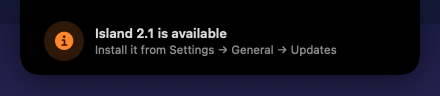
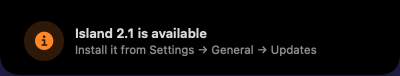
Island page: each install step carries its own picture; cards aligned row by row

diff --git a/island/index.html b/island/index.html
@@ -25,7 +25,7 @@
   </script>
   <script src="/theme-init.js"></script>
   <link rel="stylesheet" href="/style.css">
-  <link rel="stylesheet" href="/island/island.css?v=5">
+  <link rel="stylesheet" href="/island/island.css?v=6">
 </head>
 <body class="theme-org">
   <header class="site-header">
@@ -297,20 +297,20 @@
         </div>
         <ol class="steps-list install-steps reveal">
           <li>
-            <strong>Download</strong>Open the <span data-download-name>Island .dmg</span> and drag Island to Applications.
+            <strong>Download</strong><p class="step-text">Open the <span data-download-name>Island .dmg</span> and drag Island to Applications.</p>
             <div class="step-visual"><a class="btn btn-primary" data-download href="#install">Download free for Mac</a></div>
           </li>
           <li>
-            <strong>Open it</strong>Double-click Island. When macOS says it could not verify it, click <em>Done</em> (not Move to Trash).
+            <strong>Open it</strong><p class="step-text">Double-click Island. When macOS says it could not verify it, click <em>Done</em> (not Move to Trash).</p>
             <div class="step-visual"><img src="/assets/island/install-warning.png?v=2" width="274" height="284" loading="lazy" alt="The macOS message “Island” Not Opened: Apple could not verify Island is free of malware, with Move to Trash and Done buttons"></div>
           </li>
           <li>
-            <strong>Allow it, once</strong>Open System Settings → Privacy &amp; Security, scroll down to “Island was blocked”, click <em>Open Anyway</em>, and confirm with Touch ID or your password.
+            <strong>Allow it, once</strong><p class="step-text">Open System Settings → Privacy &amp; Security, scroll down to “Island was blocked”, click <em>Open Anyway</em>, and confirm with Touch ID or your password.</p>
             <div class="step-visual"><img class="framed" src="/assets/island/install-open-anyway.png" width="480" height="170" loading="lazy" alt="System Settings, Privacy and Security: “Island” was blocked to protect your Mac, with an Open Anyway button"></div>
           </li>
           <li>
-            <strong>That’s it</strong>Updates install from inside Island, are checked to be signed by MundaneApps, and never show the warning again.
-            <div class="step-visual"><img class="framed" src="/assets/island/install-update.png" width="440" height="96" loading="lazy" alt="Island’s pop-up: Island 2.1 is available, install it from Settings, General, Updates"></div>
+            <strong>That’s it</strong><p class="step-text">Updates install from inside Island, are checked to be signed by MundaneApps, and never show the warning again.</p>
+            <div class="step-visual"><img class="popup" src="/assets/island/install-update.png?v=2" width="400" height="76" loading="lazy" alt="Island’s pop-up: Island 2.1 is available, install it from Settings, General, Updates"></div>
           </li>
         </ol>
         <p class="install-trust reveal"><strong>Why it’s safe to allow:</strong> Island runs entirely on your Mac and never uploads your audio, notes or files. Each release is signed by MundaneApps, refunds are open for 14 days, and a real person answers at <a href="mailto:info@mundaneapps.com">info@mundaneapps.com</a>.</p>

diff --git a/island/island.css b/island/island.css
@@ -112,7 +112,15 @@ html[data-theme="dark"] .buy-status.error { color: #ffb4ab; }
 
 /* Install: each step card carries its picture, in an equal-height area at the bottom */
 .install-steps li { display: flex; flex-direction: column; }
-.install-steps .step-visual { margin: 16px -20px -18px; flex: 1; min-height: 260px; display: grid; place-items: center; padding: 20px;
+.install-steps .step-text { margin: 0; }
+/* Line the cards' parts up across each row: number, title, text, picture. */
+@supports (grid-template-rows: subgrid) {
+  @media (min-width: 700px) {
+    .install-steps li { display: grid; grid-row: span 4; grid-template-rows: subgrid; row-gap: 0; }
+    .install-steps { row-gap: 14px; }
+  }
+}
+.install-steps .step-visual { margin: 16px -20px -18px; flex: 1; align-self: stretch; min-height: 260px; display: grid; place-items: center; padding: 20px;
   border-top: 1px solid var(--border); border-radius: 0 0 var(--radius-lg) var(--radius-lg);
   background: linear-gradient(160deg, #1b1d3a 0%, #3b2a5c 60%, #6a3f62 100%); }
 .install-steps .step-visual img { display: block; max-width: 100%; max-height: 240px; width: auto; height: auto; }
@@ -121,3 +129,4 @@ html[data-theme="dark"] .buy-status.error { color: #ffb4ab; }
 .install-trust { max-width: 760px; margin: 22px 0 0; color: var(--fg-soft); font-size: .95rem; }
 @media (min-width: 700px) { .steps-list { grid-template-columns: repeat(2, 1fr); } }
 @media (max-width: 699px) { .install-steps .step-visual { min-height: 200px; } }
+.install-steps .step-visual img.popup { border-radius: 18px; box-shadow: 0 12px 30px rgba(0,0,0,.35); }

diff --git a/island/buy.html b/island/buy.html
@@ -18,7 +18,7 @@
   <meta name="twitter:card" content="summary_large_image">
   <script src="/theme-init.js"></script>
   <link rel="stylesheet" href="/style.css">
-  <link rel="stylesheet" href="/island/island.css?v=5">
+  <link rel="stylesheet" href="/island/island.css?v=6">
 </head>
 <body class="theme-org">
   <header class="site-header">

diff --git a/island/delete-account.html b/island/delete-account.html
@@ -18,7 +18,7 @@
   <meta name="twitter:card" content="summary_large_image">
   <script src="/theme-init.js"></script>
   <link rel="stylesheet" href="/style.css">
-  <link rel="stylesheet" href="/island/island.css?v=5">
+  <link rel="stylesheet" href="/island/island.css?v=6">
 </head>
 <body class="theme-org">
   <header class="site-header">

diff --git a/island/privacy.html b/island/privacy.html
@@ -18,7 +18,7 @@
   <meta name="twitter:card" content="summary_large_image">
   <script src="/theme-init.js"></script>
   <link rel="stylesheet" href="/style.css">
-  <link rel="stylesheet" href="/island/island.css?v=5">
+  <link rel="stylesheet" href="/island/island.css?v=6">
 </head>
 <body class="theme-org">
   <header class="site-header">

diff --git a/island/refunds.html b/island/refunds.html
@@ -18,7 +18,7 @@
   <meta name="twitter:card" content="summary_large_image">
   <script src="/theme-init.js"></script>
   <link rel="stylesheet" href="/style.css">
-  <link rel="stylesheet" href="/island/island.css?v=5">
+  <link rel="stylesheet" href="/island/island.css?v=6">
 </head>
 <body class="theme-org">
   <header class="site-header">

diff --git a/island/support.html b/island/support.html
@@ -18,7 +18,7 @@
   <meta name="twitter:card" content="summary_large_image">
   <script src="/theme-init.js"></script>
   <link rel="stylesheet" href="/style.css">
-  <link rel="stylesheet" href="/island/island.css?v=5">
+  <link rel="stylesheet" href="/island/island.css?v=6">
 </head>
 <body class="theme-org">
   <header class="site-header">

diff --git a/island/terms.html b/island/terms.html
@@ -18,7 +18,7 @@
   <meta name="twitter:card" content="summary_large_image">
   <script src="/theme-init.js"></script>
   <link rel="stylesheet" href="/style.css">
-  <link rel="stylesheet" href="/island/island.css?v=5">
+  <link rel="stylesheet" href="/island/island.css?v=6">
 </head>
 <body class="theme-org">
   <header class="site-header">
